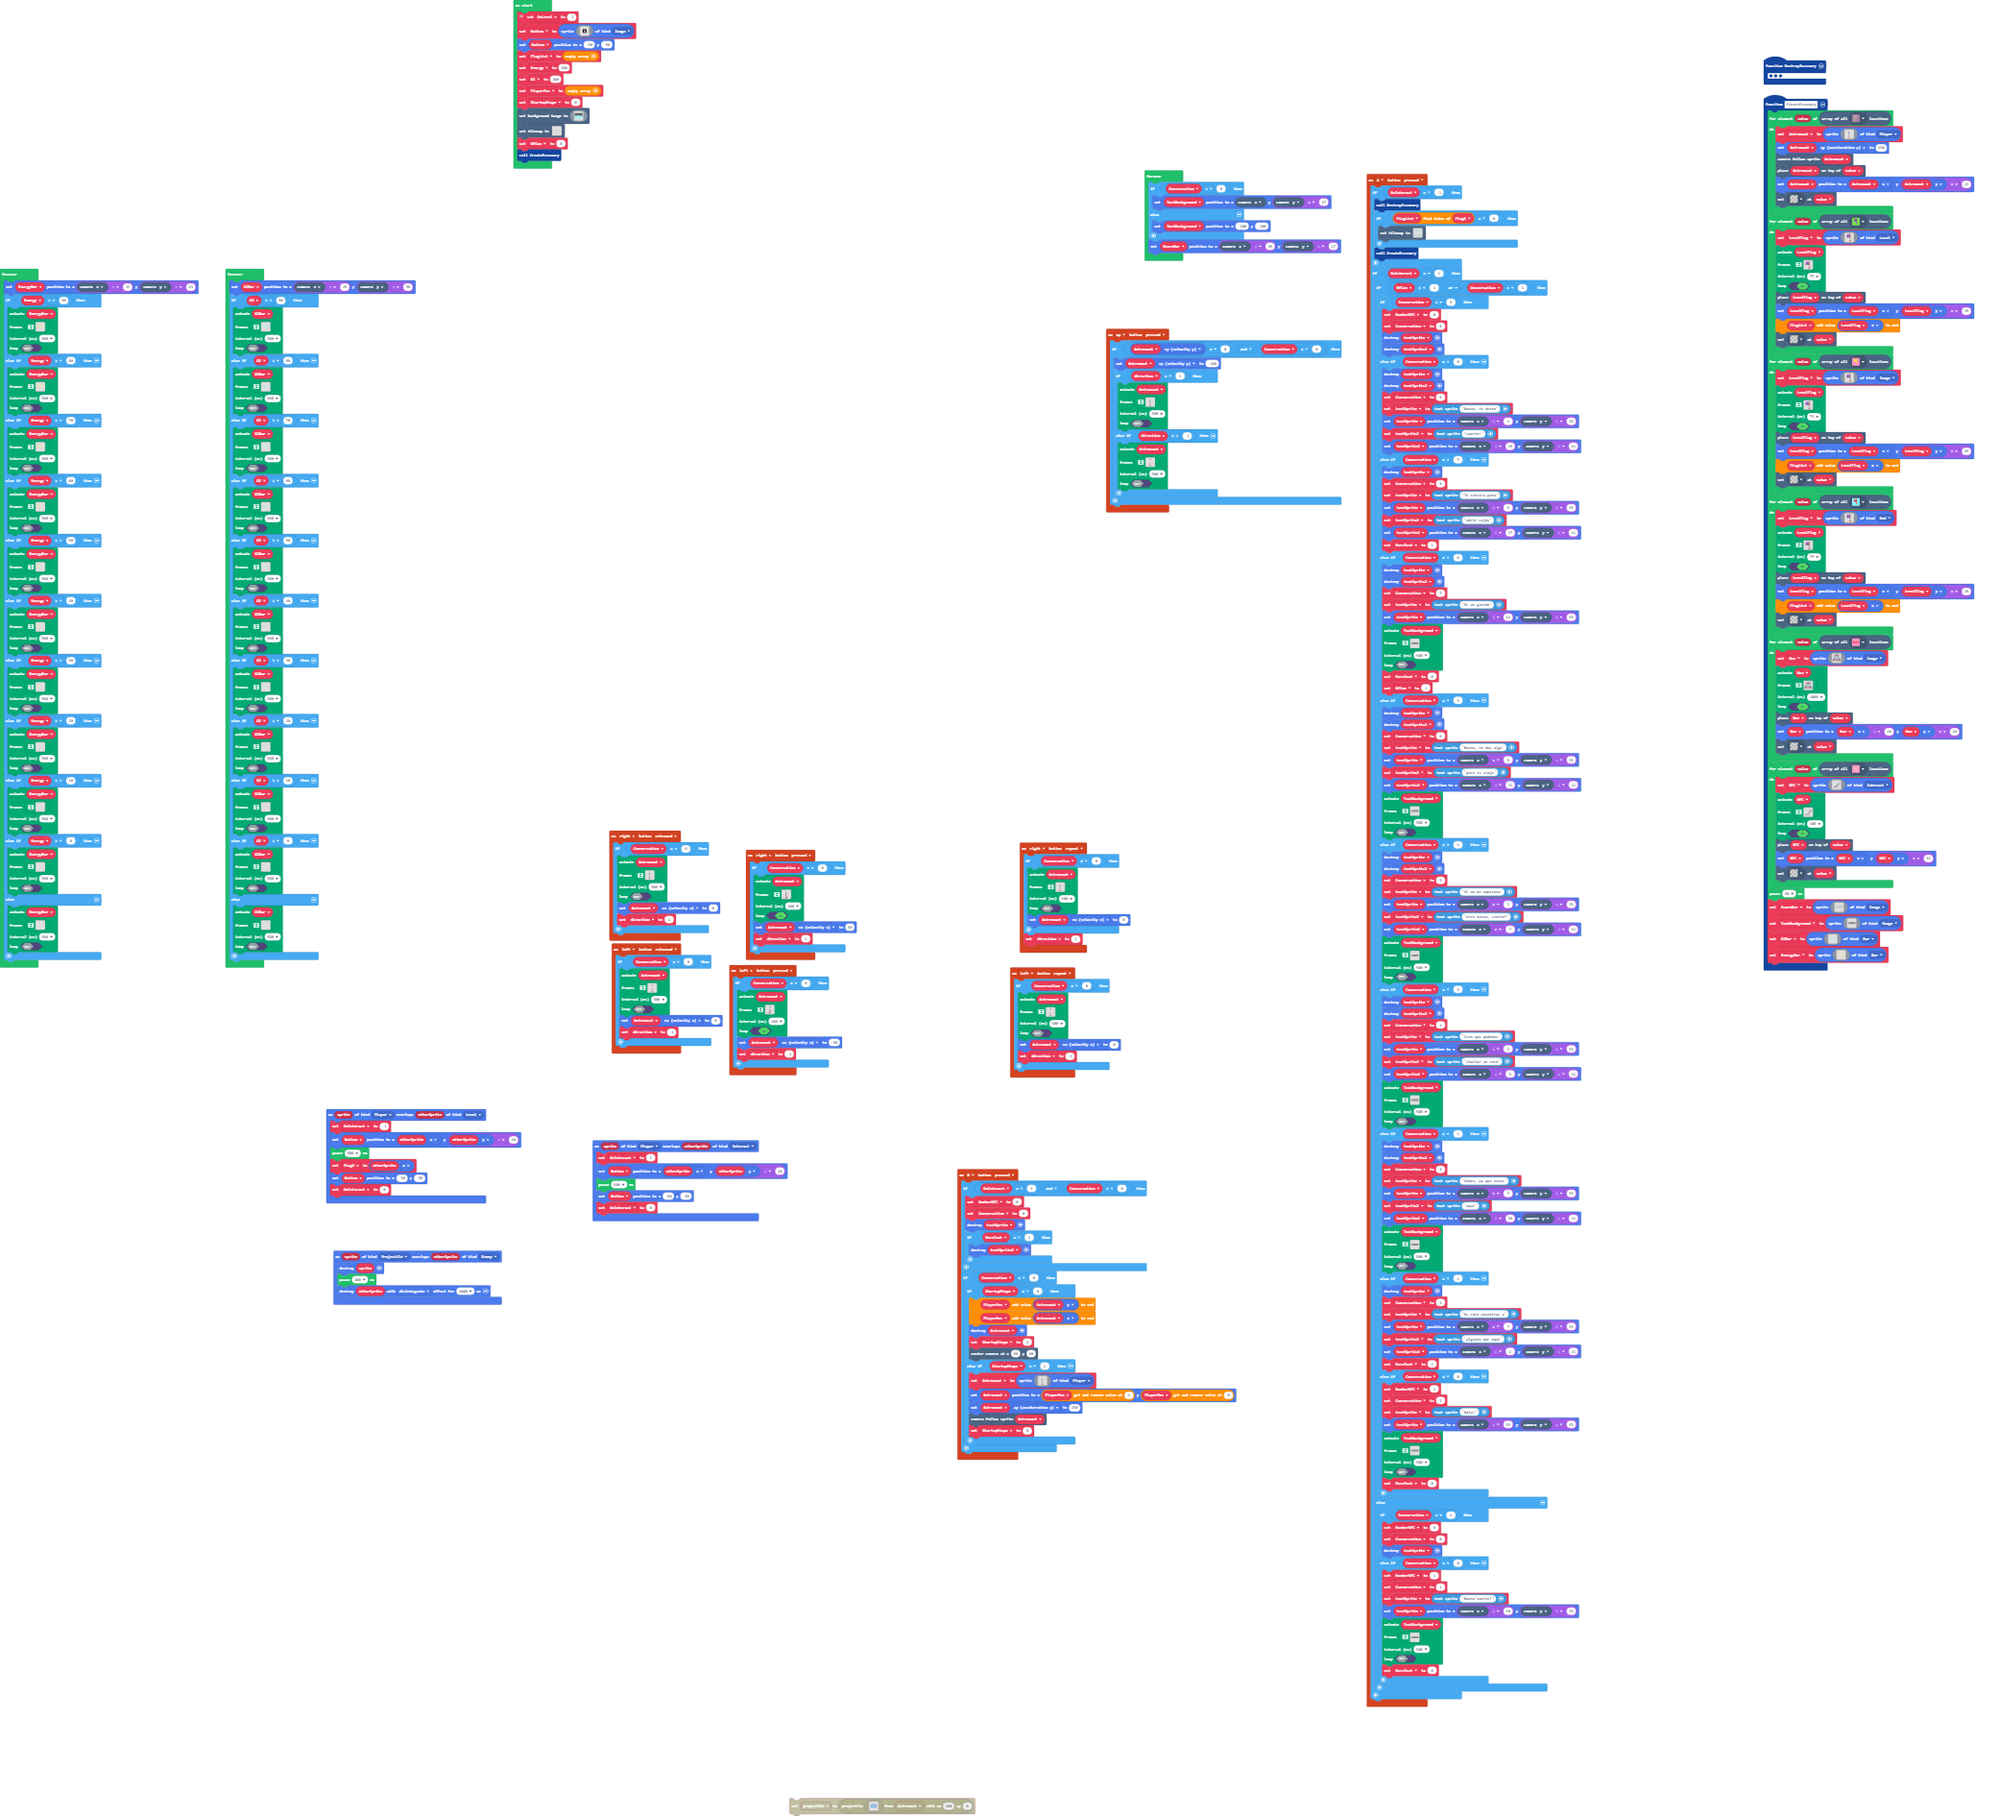
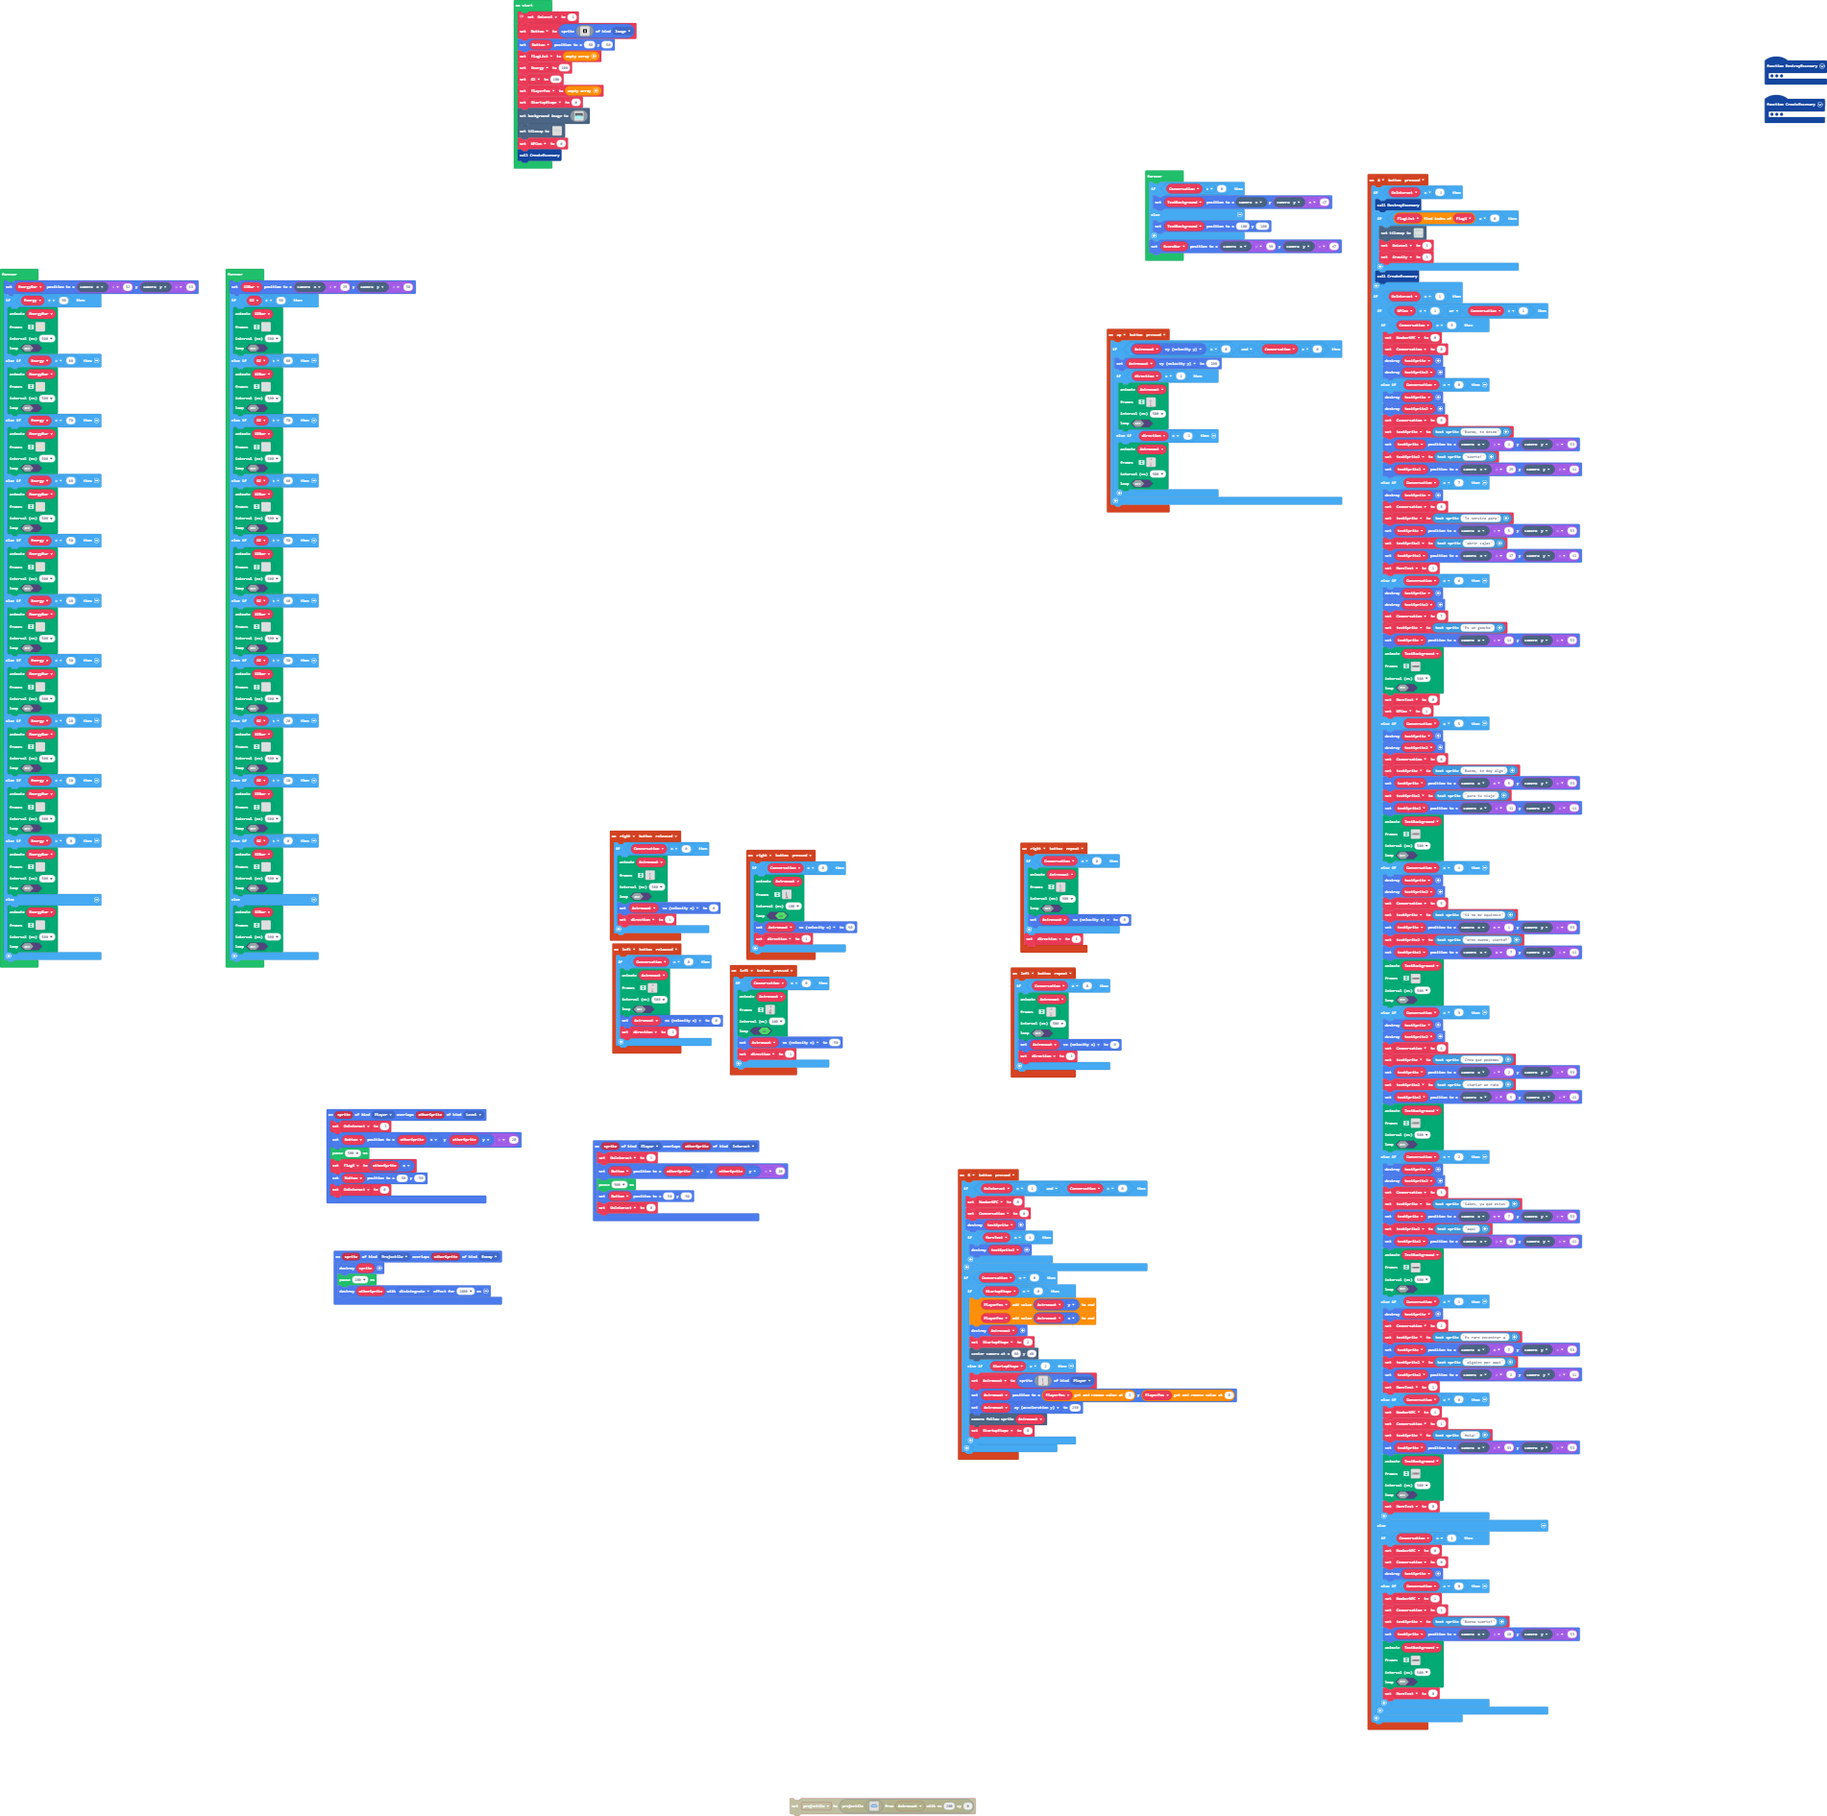
LoaderAboutMoreProblems

diff --git a/main.ts b/main.ts
@@ -174,6 +174,8 @@ controller.A.onEvent(ControllerButtonEvent.Pressed, function () {
                 22222....2222....22222
                 ....2....2..2....2....
                 `, [myTiles.transparency16,myTiles.tile3,myTiles.tile4,myTiles.tile12,myTiles.tile13,myTiles.tile1,myTiles.tile14,myTiles.tile15,myTiles.tile34,myTiles.tile35,myTiles.tile36,myTiles.tile37,myTiles.tile38,myTiles.tile39,myTiles.tile33,myTiles.tile40], TileScale.Sixteen))
+            OnLevel = 1
+            Gravity = 1
         }
         CreateEscenary()
     }
@@ -939,47 +941,6 @@ controller.right.onEvent(ControllerButtonEvent.Pressed, function () {
     }
 })
 function CreateEscenary () {
-    for (let value of tiles.getTilesByType(myTiles.tile15)) {
-        Astronaut = sprites.create(img`
-            ..dddddd....
-            .dddddddd...
-            .ddddd111...
-            .dddd1111...
-            .dddd1111...
-            .dddd1119...
-            .ddddd999...
-            ..ddbbbb....
-            ...1111.....
-            ..118811....
-            ..188881....
-            ..188881....
-            ..188881....
-            ..1d88d1....
-            ..1dddd1....
-            ..1dddd1....
-            ..1dddb1....
-            ..1ddbb1....
-            ..1bbbb1....
-            ...dbbd.....
-            ...dddd.....
-            ...dddd.....
-            ...44ee.....
-            ...4eee.....
-            ...dddd.....
-            ...dddd.....
-            ...dddd.....
-            ...dddd.....
-            ...dddd.....
-            ...cccc.....
-            ..cccbbbb...
-            ..cccbbbb...
-            `, SpriteKind.Player)
-        Astronaut.ay = 250
-        scene.cameraFollowSprite(Astronaut)
-        tiles.placeOnTile(Astronaut, value)
-        Astronaut.setPosition(Astronaut.x, Astronaut.y + 22)
-        tiles.setTileAt(value, myTiles.transparency16)
-    }
     for (let value of tiles.getTilesByType(myTiles.tile32)) {
         LevelFlag = sprites.create(img`
             ..........e...
@@ -3092,6 +3053,47 @@ function CreateEscenary () {
         NPC.setPosition(NPC.x, NPC.y + 32)
         tiles.setTileAt(value, myTiles.transparency16)
     }
+    for (let value of tiles.getTilesByType(myTiles.tile15)) {
+        Astronaut = sprites.create(img`
+            ..dddddd....
+            .dddddddd...
+            .ddddd111...
+            .dddd1111...
+            .dddd1111...
+            .dddd1119...
+            .ddddd999...
+            ..ddbbbb....
+            ...1111.....
+            ..118811....
+            ..188881....
+            ..188881....
+            ..188881....
+            ..1d88d1....
+            ..1dddd1....
+            ..1dddd1....
+            ..1dddb1....
+            ..1ddbb1....
+            ..1bbbb1....
+            ...dbbd.....
+            ...dddd.....
+            ...dddd.....
+            ...44ee.....
+            ...4eee.....
+            ...dddd.....
+            ...dddd.....
+            ...dddd.....
+            ...dddd.....
+            ...dddd.....
+            ...cccc.....
+            ..cccbbbb...
+            ..cccbbbb...
+            `, SpriteKind.Player)
+        Astronaut.ay = 250
+        scene.cameraFollowSprite(Astronaut)
+        tiles.placeOnTile(Astronaut, value)
+        Astronaut.setPosition(Astronaut.x, Astronaut.y + 22)
+        tiles.setTileAt(value, myTiles.transparency16)
+    }
     pause(50)
     ScoreBar = sprites.create(img`
         .11111111111111111111.........................................................
@@ -3555,6 +3557,7 @@ let NPC: Sprite = null
 let Nav: Sprite = null
 let LevelFlag: Sprite = null
 let TextBackground: Sprite = null
+let Gravity = 0
 let FlagX = 0
 let textSprite2: Sprite = null
 let MoreText = 0
@@ -3569,10 +3572,11 @@ let StartupEtape = 0
 let PlayerPos: number[] = []
 let FlagList: number[] = []
 let Button: Sprite = null
+let OnLevel = 0
 // Negative: Num Map
 // Positive: Num Level
 // None: Pant-Ini
-let OnLevel = -1
+OnLevel = -1
 Button = sprites.create(img`
     . . . . . . . . . . . . . . . . 
     . . . . . . . . . . . . . . . . 
